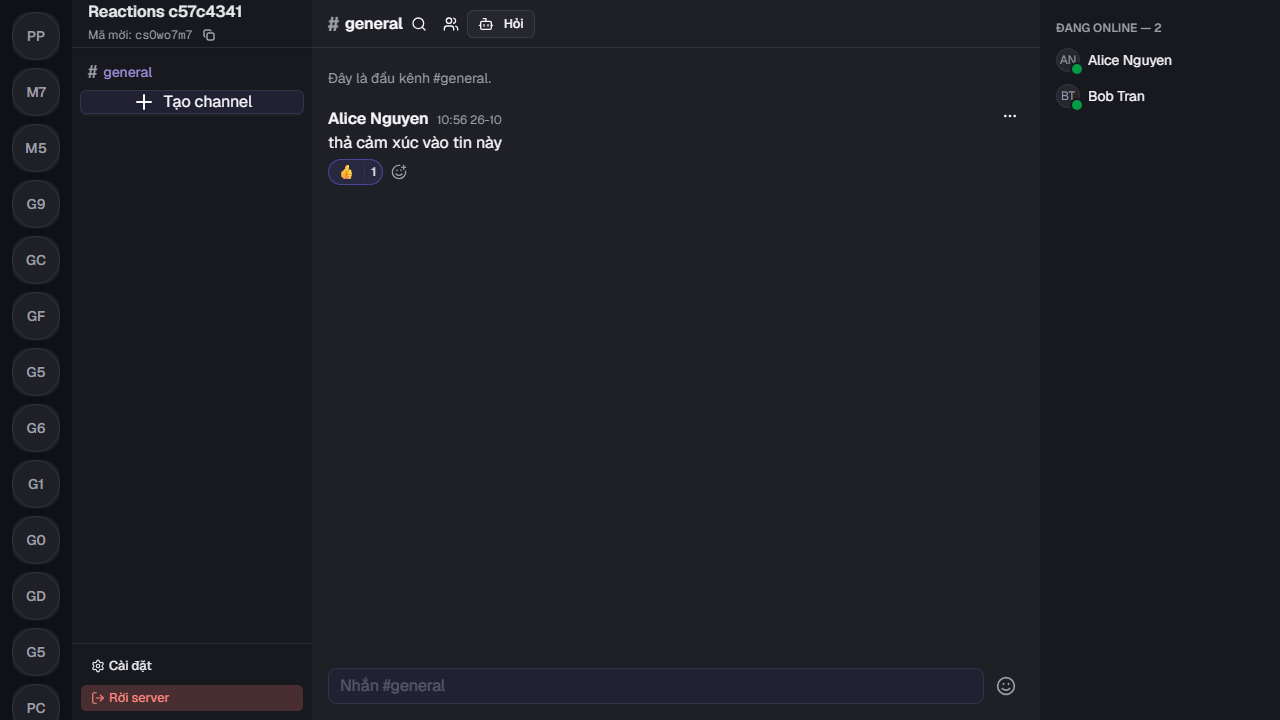
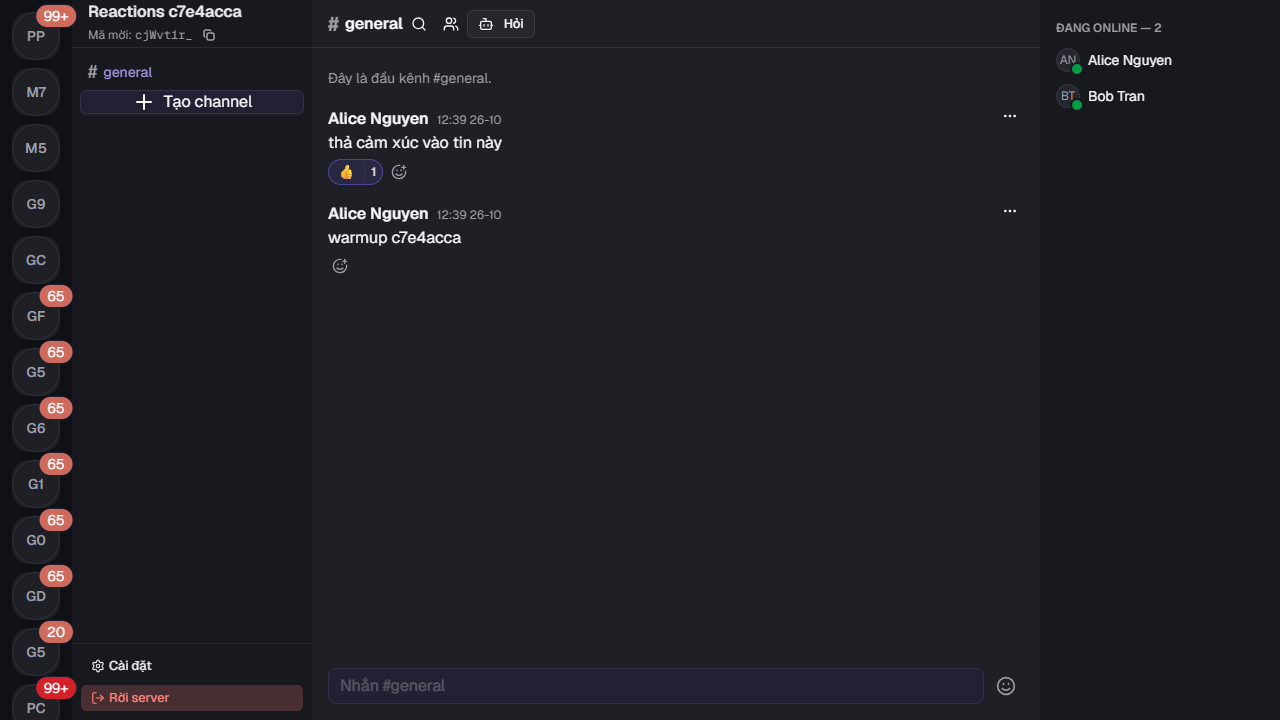
fix(ci): exempt evidence manifests from gitleaks and wait for socket join in reaction e2e
- gitleaks generic-api-key matched the SHA-256 file hashes in the TG.2 evidence source manifest; .gitleaks.toml now allows exactly docs/v0.2.0/evidence/*/source-manifest.json and the security job passes --config explicitly (ADR-0032 updated).

- CI shard 3 failed because alice's reaction event fired before bob's socket joined the channel room; the spec now sends a warm-up message and waits for it to render on bob's page (message.created reaches the same room) before asserting realtime. Verified locally on the production build: 1 passed in 40.9 s.

diff --git a/apps/web/e2e/reaction.spec.ts b/apps/web/e2e/reaction.spec.ts
@@ -55,6 +55,20 @@ test('reactions: pick, toggle, reactor list and realtime from another member', a
     const bobArticle = bobPage.locator(`article[data-message-id="${message.id}"]`);
     await expect(bobArticle).toBeVisible({ timeout: 45_000 });
 
+    // CI từng đỏ vì cảm xúc phát đi trước khi socket của bob vào room channel. `message.created`
+    // cũng chỉ tới room đó, nên gửi một tin đánh dấu rồi chờ nó hiện ở tab bob là bằng chứng bob
+    // đã join: trang bob đã tải xong danh sách tin trước đó, nên tin này chỉ đến được qua socket
+    // (hoặc sau một lần nối lại — khi đó client cũng join room trước khi vá khoảng trống).
+    const warmup = await ownerContext.request.post(`${API}/channels/${channelId}/messages`, {
+      headers,
+      data: { content: `warmup ${suffix}`, nonce: randomUUID() },
+    });
+    expect(warmup.ok()).toBeTruthy();
+    const warmupMessage = (await warmup.json()) as MessageDto;
+    await expect(bobPage.locator(`article[data-message-id="${warmupMessage.id}"]`)).toBeVisible({
+      timeout: 45_000,
+    });
+
     await test.step('chọn 👍 trong hộp chọn → viên thuốc hiện 1 và là của mình', async () => {
       await article.getByTestId('add-reaction').click();
       const picker = page.getByTestId('emoji-picker');

diff --git a/docs/adr/0032-ci-and-containers.md b/docs/adr/0032-ci-and-containers.md
@@ -23,7 +23,9 @@ The deployment work listed in the last section is **moved to v0.2.0** by
   - **Report-only for now:** `lighthouse` (thresholds need a few runs to settle) and the Trivy step
     (`continue-on-error`). Switch both to blocking once they are stable.
   - gitleaks flagged two false positives on its first run (a placeholder in `.env.prod.example`, a
-    public badge token in the Nest README); `.gitleaks.toml` allows exactly those two paths with the reason.
+    public badge token in the Nest README) and, from TG.2 on, an evidence source manifest whose
+    SHA-256 file hashes match the `generic-api-key` rule. `.gitleaks.toml` allows exactly those
+    paths with the reason; evidence manifests are the only directory pattern it exempts.
 - **Images.** `apps/api/Dockerfile` and `apps/web/Dockerfile`, built from the repo root: `turbo prune
 --docker` → install (cached layer) → build → runner, non-root `node` user, `HEALTHCHECK`.
   - API: the `runner` target holds production dependencies and `dist` only (via `pnpm deploy --legacy
